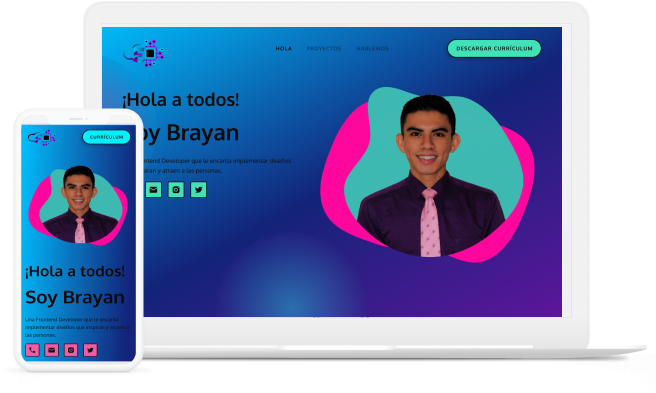
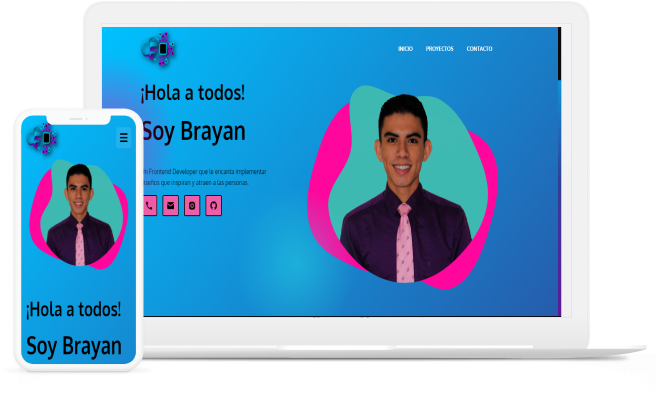
Add files via upload
-Actualizado proyecto #2
-Corregido el padding de la sección hero
-Corregido el nav responsive

diff --git a/index.html b/index.html
@@ -43,7 +43,7 @@
 
                     <ul>
                         <li>
-                            <i class="fas fa-home"></i><a class="active" href="#main">Inicio</a>
+                            <i class="fas fa-home"></i><a id="margin" href="#main">Inicio</a>
                         </li>
                         <li>
                             <i class="fas fa-briefcase"></i><a href="#proyectos">Proyectos</a>
@@ -53,19 +53,12 @@
                         </li>
                     </ul>
                 </nav>
-                <!-- Botón ede Curriculum -->
-                <!-- <button class="button">
-                    <a target="_blank" href="./CV Brayan Serna.pdf" download="CV_Brayan.pdf">
-                        <span class="button_download">Descargar</span>
-                        <span>Curriculum</span>
-                    </a>
-                </button> -->
             </div>
         </div>
     </header>
     <div class="wrapper" id="main">
         <!-- Hero(img, títulos, párrafo y btns.) -->
-        <section class="hero">
+        <section class="hero" id="top">
             <div class="hero_imagen">
                 <img src="./Img/BrayanPC.png" alt="Logo de FrontSoft" width="" height="" />
             </div>
@@ -147,27 +140,6 @@
             </div>
         </div>
 
-
-        <!-- Proyecto 3-->
-        <div class="proyectos">
-            <div class="proyectos_image">
-                <img src="./Img/IphoneX.png" alt="Imagen del sitio web en un Iphone" width="" height="" />
-            </div>
-            <div class="proyectos_description">
-                <a class="title" target="_blank" href="#">FrontSoft.com</a>
-                <p>
-                    Nos dedicamos a realizar todo tipo de software, él limite esta en tu
-                    imaginación
-                </p>
-                <div class="botones">
-                    <a target="_blank" href="./index.html" class="button"> oyecto</a>
-                    <a target="_blank" rel="noopener" href="https://github.com/brayan0113" class="button btn2"><img
-                            src="./Icon/icon-github.svg " alt="Ir al github de Brayan" width="" height="" />
-                        Ver código</a>
-                </div>
-            </div>
-        </div>
-
         <!-- Formulario -->
         <form action="mailto:bryanserna0113@gmail.com" method="post" enctype="text/plain" class="formulario"
             id="contact">
@@ -182,12 +154,19 @@
                     <p class="form_text">Nombre completo<span>*</span></p>
                     <input name="name" id="form_name" type="text" required placeholder="Nombre" />
                 </label>
+
+                <label for="form_tel">
+                    <p class="form_text">Teléfono<span>*</span></p>
+                    <input name="tel" id="form_tel" type="tel" required placeholder="+573146107188" />
+                </label>
+
                 <label for="form_email">
                     <p class="form_text">
                         Correo Electrónico<span>*</span></p>
                     </p>
                     <input name="email" id="form_email" type="email" required placeholder="@gmail.com" />
                 </label>
+
                 <label for="form_message">
                     <p class="form_text">Mensaje<span>*</span></p>
                     <textarea name="message" id="form_message" cols="30" rows="7" required

diff --git a/CSS/menu.css b/CSS/menu.css
@@ -1,12 +1,14 @@
 .menu {
-  position: fixed;
-  top: 0;
-  right: -280px;
-  padding: 40px;
-  background: var(--gray);
   height: 100vh;
+  width: 0;
+  position: fixed;
   z-index: 1;
-  transition: all 300ms;
+  top: 0;
+  right: 0;
+  background-color: rgb(0, 0, 0);
+  background-color: rgba(0, 0, 0, 0.9);
+  overflow-x: hidden;
+  transition: 0.5s;
 }
 
 .menu ul {
@@ -14,17 +16,21 @@
   flex-direction: column;
   list-style: none;
   gap: 40px;
-  padding: 40px;
+  padding: 80px;
 }
-
-.menu ul a {
+.menu ul li,
+a {
   text-decoration: none;
-  color: var(--black);
   font: var(--button);
   text-transform: uppercase;
+  transition: 0.3s;
+  color: var(--greenBlue);
+  flex-direction: row;
+  display: flex;
+  align-items: center;
 }
-
-.menu ul a.active {
+.menu ul li,
+a:hover {
   color: var(--white);
 }
 .menu ul li i {
@@ -52,6 +58,14 @@
   }
   .menu ul {
     flex-direction: row;
+  }
+  .menu ul li,
+  a {
+    color: var(--white);
+  }
+  .menu ul li,
+  a:hover {
+    color: var(--black);
   }
   .menu ul li i {
     display: none;

diff --git a/CSS/buttons.css b/CSS/buttons.css
@@ -1,26 +1,26 @@
 .button {
-    background: var(--greenBlue);
-    color: var(--black);
-    padding-inline-start: 24px;
-    padding-inline-end: 24px;
-    padding-block-start: 13px;
-    padding-block-end: 13px;
-    border: 2px solid var(--black);
-    font: var(--button);
-    text-transform: uppercase;
-    border-radius: 90px;
-    text-decoration: none;
-    text-align: center;
-    cursor: pointer;
+  background: var(--greenBlue);
+  color: var(--black);
+  padding-inline-start: 24px;
+  padding-inline-end: 24px;
+  padding-block-start: 13px;
+  padding-block-end: 13px;
+  border: 2px solid var(--black);
+  font: var(--button);
+  text-transform: uppercase;
+  border-radius: 90px;
+  text-decoration: none;
+  justify-content: center;
+  cursor: pointer;
 }
 
 .button.btn2 {
-    background: unset;
-    display: flex;
-    justify-content: center;
-    gap: 9px;
+  background: unset;
+  display: flex;
+  justify-content: center;
+  gap: 9px;
 }
 
 .button:active {
-    transform: scale(.9);
+  transform: scale(0.9);
 }

diff --git a/Js/nav.js b/Js/nav.js
@@ -1,15 +1,21 @@
 document.getElementById("btn_i").addEventListener("click", showNav);
 document.getElementById("nav").addEventListener("click", closeNav);
+document.getElementById("margin").addEventListener("click", topMargin)
 
 nav = document.getElementById("nav");
 background = document.getElementById("back-menu");
 
 function showNav() {
-    nav.style.right = "0px";
     background.style.display = "block";
+    document.getElementById("nav").style.width = "75%";
+
 
 }
 function closeNav() {
-    nav.style.right = "-280px";
-    background.style.display = "none";
+  document.getElementById("nav").style.width = "0%";
+  background.style.display = "none";
+}
+
+function topMargin(){
+    document.getElementById("top").style.paddingTop = "75px";
 }

diff --git a/CSS/comentario.css b/CSS/comentario.css
@@ -5,6 +5,7 @@
   text-align: center;
   padding-block-start: 40px;
   padding-block-end: 40px;
+  align-items: center;
 }
 
 .comentario p {
@@ -13,10 +14,6 @@
 
 .comentario span {
   font: var(--headline5);
-}
-
-.comentario_icon {
-  text-align: center;
 }
 
 @media screen and (min-width: 768px) {

diff --git a/CSS/main.css b/CSS/main.css
@@ -127,7 +127,7 @@ body::-webkit-scrollbar-thumb {
     width: 400px;
     height: 400px;
     left: -90px;
-    top: 3490px;
+    top: 2590px;
     background: radial-gradient(
       155% 155% at 50% 50%,
       #ff00f2 0%,

diff --git a/CSS/header.css b/CSS/header.css
@@ -14,6 +14,7 @@
 .logo {
   width: 100px;
   height: 80px;
+  display: flex;
 }
 .logo img {
   filter: drop-shadow(4px 4px 6px #000);
